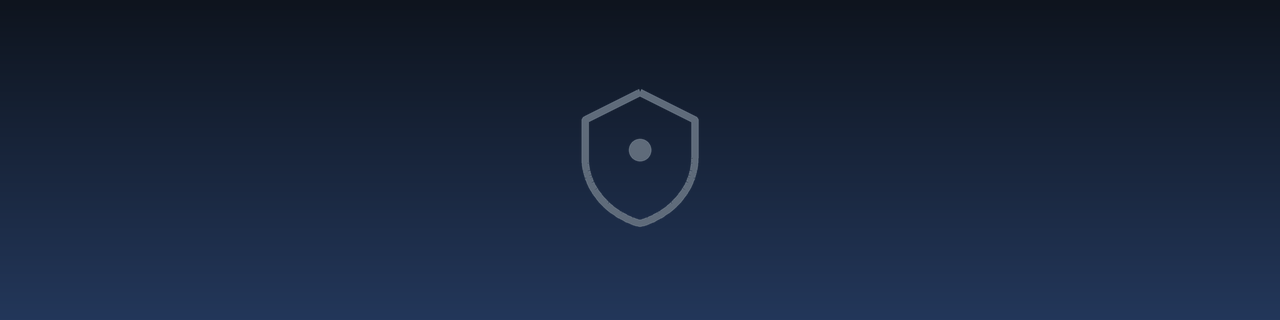
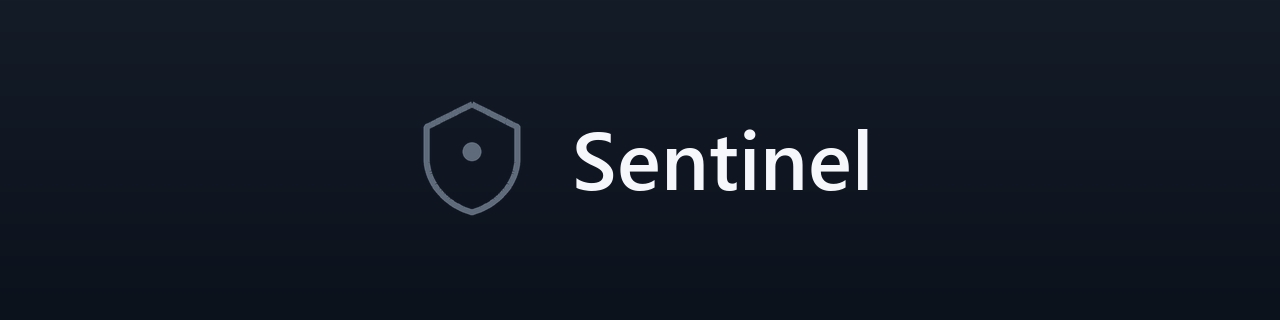
Update README

diff --git a/agent/tools/gen_wix_assets.py b/agent/tools/gen_wix_assets.py
@@ -166,19 +166,47 @@ def write_app_icon_ico(out_path: Path, spec: dict):
 
 
 def write_readme_banner_png(out_path: Path, spec: dict):
-    from PIL import Image
+    from PIL import Image, ImageDraw, ImageFont
 
+    def load_font(px: int) -> ImageFont.ImageFont:
+        candidates = [
+            r"C:\Windows\Fonts\seguisb.ttf",  # Segoe UI Semibold
+            r"C:\Windows\Fonts\segoeuib.ttf",  # Segoe UI Bold
+            r"C:\Windows\Fonts\segoeui.ttf",
+            r"C:\Windows\Fonts\arialbd.ttf",
+            r"C:\Windows\Fonts\arial.ttf",
+        ]
+        for p in candidates:
+            try:
+                return ImageFont.truetype(p, px)
+            except Exception:
+                pass
+        return ImageFont.load_default()
+
+    # GitHub-friendly wide banner, styled like the provided reference (dark bar, icon at left, title text).
     W, H = (1280, 320)
-    bg_top = (14, 20, 30)
-    bg_bottom = (35, 55, 90)
+    base = vertical_gradient((W, H), (20, 28, 40), (12, 18, 28)).convert("RGBA")
+    draw = ImageDraw.Draw(base)
 
-    base = vertical_gradient((W, H), bg_top, bg_bottom).convert("RGBA")
+    # Centered logo + title group (no panels; everything sits directly on the gradient).
+    logo = render_favicon_rgba(spec, 132)
+    title = "Sentinel"
+    font = load_font(82)
+    text_bbox = draw.textbbox((0, 0), title, font=font)
+    text_w = text_bbox[2] - text_bbox[0]
+    text_h = text_bbox[3] - text_bbox[1]
 
-    # Logo directly on the gradient (no tile/box, no glow).
-    logo = render_favicon_rgba(spec, 160)
-    lx = (W - logo.width) // 2
-    ly = (H - logo.height) // 2
-    base.alpha_composite(logo, (lx, ly))
+    gap = 34
+    group_w = logo.width + gap + text_w
+    start_x = (W - group_w) // 2
+
+    logo_x = start_x
+    logo_y = (H - logo.height) // 2
+    base.alpha_composite(logo, (logo_x, logo_y))
+
+    text_x = logo_x + logo.width + gap
+    text_y = (H - text_h) // 2 - text_bbox[1]
+    draw.text((text_x, text_y), title, font=font, fill=(245, 247, 250, 255))
 
     out_path.parent.mkdir(parents=True, exist_ok=True)
     out_path.unlink(missing_ok=True)
